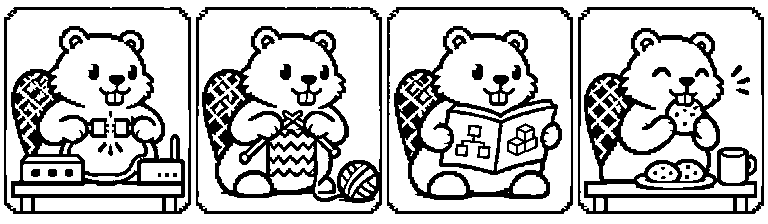
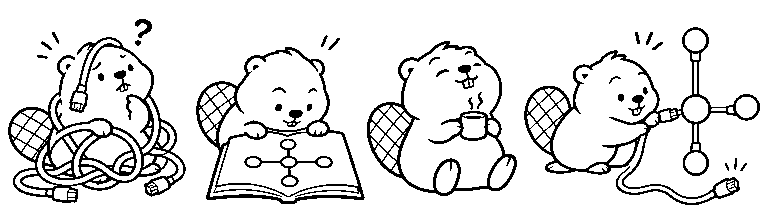
feat: aplicar castor minimalista elegido para la carga (1.2.4)

Changed region(s): [[0.0, 0.0312, 1.0, 0.9688]]

diff --git a/index.html b/index.html
@@ -3,7 +3,7 @@
 <head>
 <meta charset="utf-8">
 <meta name="viewport" content="width=device-width, initial-scale=1">
-<meta name="application-version" content="fractalear-1.2.3">
+<meta name="application-version" content="fractalear-1.2.4">
 <title>Fractalear · LAB 4.0 · Universidad Nacional</title>
 <link rel="icon" type="image/svg+xml" sizes="any" href="./css/images/favicon.svg">
 <link rel="stylesheet" href="./css/interfaz.css">
@@ -37,13 +37,13 @@
    <div class="toplabel"><div class="eyebrow" >Editor / 01</div><div class="maptitle" >Mapa de relaciones</div><div class="mapcaption" >Núcleo · trayectorias editables</div></div>
    <div id="readHint" class="readhint" hidden></div><div id="derivedStatus" class="readhint derived-status" role="status" aria-live="polite" hidden></div>
    <div class="loading-overlay" id="loadingIndicator" role="status" aria-live="polite"><div class="loading-card"><div class="eyebrow">Fractalear</div><p class="loading-title" data-loading-title>Preparando tu lienzo</p>
-    <img class="loading-illustration" src="./css/images/beaver-strip.png" width="768" height="224" alt="Castor conectando cables, tejiendo, leyendo un manual y comiendo una galleta." decoding="async">
+    <img class="loading-illustration" src="./css/images/beaver-strip.png" width="768" height="224" alt="Castor enredado en cables, consultando un manual, tomando café y organizando una red de conexiones." decoding="async">
     <div class="loading-track" role="progressbar" aria-label="Cálculo en curso"><span></span></div><p class="loading-detail" data-loading-detail>Cargando la herramienta…</p></div></div>
    <div class="floating" aria-label="Controles de lectura"><div class="zoom-controls"><button id="zoomOut" aria-label="Alejar">−</button><button id="zoomIn" aria-label="Acercar">+</button><button id="zoomFit" aria-label="Centrar zona de lectura"><svg width="14" height="14" viewBox="0 0 20 20" aria-hidden="true" focusable="false"><circle cx="10" cy="10" r="5" fill="none" stroke="currentColor"/><path d="M10 1v5m0 8v5M1 10h5m8 0h5" fill="none" stroke="currentColor"/></svg></button></div><div class="view-tools"><button id="coreBtn" title="Centrar el núcleo J0">Núcleo</button><button id="fitBtn">Centrar lectura</button></div></div>
    <div class="toast" id="toast" role="status"></div>
   </main>
  </div>
- <footer class="foot"><span id="footHint">Edición de conceptos · representación plana</span><span id="viewState">01 · EDITABLE</span><span>Fractalear &nbsp;·&nbsp; LAB 4.0 &nbsp;·&nbsp; v1.2.3</span></footer>
+ <footer class="foot"><span id="footHint">Edición de conceptos · representación plana</span><span id="viewState">01 · EDITABLE</span><span>Fractalear &nbsp;·&nbsp; LAB 4.0 &nbsp;·&nbsp; v1.2.4</span></footer>
 </div>
 <script type="module" src="./js/app.js"></script>
 </body>

diff --git a/css/interfaz.css b/css/interfaz.css
@@ -63,7 +63,7 @@
 .loading-track{height:4px;background:var(--soft);overflow:hidden;border-radius:2px}
 .loading-track span{display:block;width:38%;height:100%;background:var(--ink);transform:translateX(-110%);animation:loading-sweep 1.4s ease-in-out infinite;will-change:transform}
 @keyframes loading-sweep{to{transform:translateX(370%)}}
-.loading-illustration{display:block;width:100%;height:auto;margin:0 auto 18px;image-rendering:pixelated;mix-blend-mode:multiply}
+.loading-illustration{display:block;width:100%;height:auto;margin:0 auto 18px;mix-blend-mode:multiply}
 :root[data-theme="dark"] .loading-illustration{filter:invert(1);mix-blend-mode:screen}
 @media(max-width:1250px){.top{grid-template-columns:minmax(0,1fr) auto;grid-template-rows:auto auto;gap:5px 14px;padding:10px 18px}.top .identity{grid-column:1;grid-row:1}.view-nav{grid-column:2;grid-row:1}.top .top-actions{grid-column:1/-1;grid-row:2;justify-content:flex-end}.top .smallbtn{padding:7px 8px}}
 @media(max-width:900px){.top{padding:8px 12px}.top .smallbtn{font-size:10px;padding:7px 6px}.top .brand{display:none}.floating{right:12px;bottom:12px}.file-actions{padding-left:5px}}

diff --git a/tests/views_e2e.py b/tests/views_e2e.py
@@ -21,7 +21,7 @@ with http.server.ThreadingHTTPServer(('127.0.0.1',0),Quiet) as srv:
   print('E2E: abriendo sitio construido',flush=True)
   page.goto('http://127.0.0.1:'+str(srv.server_address[1])+'/index.html',wait_until='domcontentloaded')
   build=page.locator('meta[name="application-build"]').get_attribute('content')
-  assert '1.2.3' in page.locator('meta[name="application-version"]').get_attribute('content')
+  assert '1.2.4' in page.locator('meta[name="application-version"]').get_attribute('content')
   page.wait_for_function('[...document.fonts].filter(f=>f.family==="Rajdhani"&&f.status==="loaded").length===2')
   def check_labels(selector):
    labels=page.locator(selector).evaluate_all("""els=>els.map(el=>{

diff --git a/tests/integrity_e2e.py b/tests/integrity_e2e.py
@@ -54,7 +54,7 @@ with http.server.ThreadingHTTPServer(('127.0.0.1',0),Quiet) as srv:
   output=os.environ.get('P1_SCREENSHOTS')
   if output:
    Path(output).mkdir(parents=True,exist_ok=True)
-   page.screenshot(path=str(Path(output)/'Fractaleando_1_2_3_carga.png'))
+   page.screenshot(path=str(Path(output)/'Fractaleando_1_2_4_carga.png'))
   for button in ['pngBtn','svgBtn']:
    page.locator('#'+button).click()
    prefix='No se pudo exportar '+('PNG' if button=='pngBtn' else 'SVG')

diff --git a/docs/INTERFAZ_1_2_4.md b/docs/INTERFAZ_1_2_4.md
@@ -1,0 +1,26 @@
+# 1.2.4 · Castor minimalista
+
+Fecha: 15 de noviembre de 2026. Incorpora la opción 2 elegida por el usuario
+tras comparar tres propuestas. Sustituye únicamente la ilustración de carga
+y ajusta su presentación a los contornos suaves del nuevo dibujo.
+
+La tira cuenta cuatro momentos con poses diferentes: enredo de cables,
+consulta del manual, pausa para café y organización de una red de conexiones.
+Se conserva como una sola imagen fija en blanco y negro, sin marcos.
+
+`css/images/beaver-strip.png` mide 768 × 224 píxeles y pesa 6.329 bytes.
+Es un PNG de un bit, sin grises, tramado, transparencia ni animación.
+Se recorta el margen exterior del original y se ajusta proporcionalmente,
+con espacio libre alrededor, sin redibujar la propuesta seleccionada.
+El [registro de procedencia](evidencias/CASTOR_1_2_4.json) conserva el prompt,
+la herramienta utilizada y las firmas del original y el archivo final.
+
+La tarjeta conserva sus dimensiones adaptables, contraste en claro y oscuro,
+barra de progreso y mensajes. Se retira el escalado forzado de píxeles del
+dibujo anterior para conservar los contornos de esta ilustración minimalista.
+El texto alternativo describe la nueva secuencia. No se añaden dependencias,
+temporizadores ni peticiones a servidores externos.
+
+El motor, la geometría, la edición y las exportaciones siguen intactos. Se
+mantienen las comprobaciones de dimensiones, formato y peso, imagen fija,
+movimiento reducido, ejemplo completo y regresión de las tres vistas.

diff --git a/README.md b/README.md
@@ -3,7 +3,7 @@
 Una herramienta desarrollada por el LAB 4.0 de la Universidad Nacional para
 construir conceptos, desarrollar sus jerarquías y representar sus relaciones.
 
-**[Abrir Fractalear](https://jncubillosn-lab.github.io/LAB4.0-Fractaleando/?v=1.2.3)**
+**[Abrir Fractalear](https://jncubillosn-lab.github.io/LAB4.0-Fractaleando/?v=1.2.4)**
 
 ## Comenzar
 
@@ -24,7 +24,7 @@ los cálculos en curso; el espacio
 ## Documentación vigente
 
 - [Guía de uso](docs/GUIA_USO.md).
-- [Interfaz 1.2.3: viñetas fijas del castor](docs/INTERFAZ_1_2_3.md).
+- [Interfaz 1.2.4: viñetas fijas del castor](docs/INTERFAZ_1_2_4.md).
 - [Propuesta de almacenamiento compartido en Drive](docs/PROPUESTA_DRIVE.md).
 - [Base funcional, decisiones y límites de 1.0.0](docs/VERSION_1_0_0.md).
 - [Mantenimiento, pruebas y publicación](docs/MANTENIMIENTO.md).

diff --git a/CHANGELOG.md b/CHANGELOG.md
@@ -1,5 +1,14 @@
 # Registro de cambios
 
+## 1.2.4 — 15 de noviembre de 2026
+
+- Aplica la ilustración minimalista elegida: castor enredado en cables,
+  consultando el manual, tomando café y organizando conexiones.
+- Conserva una tira fija en blanco y negro de 768 × 224 píxeles, ahora de
+  6.329 bytes, con texto alternativo actualizado y contornos suaves.
+- Mantiene el motor y las funciones; documenta la procedencia de la imagen
+  y conserva las comprobaciones de carga, temas y vistas.
+
 ## 1.2.3 — 15 de noviembre de 2026
 
 - Sustituye el GIF por una tira fija de cuatro viñetas del mismo castor:

diff --git a/docs/README.md b/docs/README.md
@@ -2,8 +2,8 @@
 
 **[▶ Abrir la aplicación en GitHub Pages](https://jncubillosn-lab.github.io/LAB4.0-Fractaleando/)**
 
-**Versión vigente · 1.2.3 · 15 de noviembre de 2026:**
-[viñetas fijas del castor](INTERFAZ_1_2_3.md) y [diecisiete citas poéticas](INTERFAZ_1_2_0.md), sobre la
+**Versión vigente · 1.2.4 · 15 de noviembre de 2026:**
+[viñetas fijas del castor](INTERFAZ_1_2_4.md) y [diecisiete citas poéticas](INTERFAZ_1_2_0.md), sobre la
 [base funcional y límites de 1.0.0](VERSION_1_0_0.md).
 Consultar la [guía de uso](GUIA_USO.md), el
 [mantenimiento y la publicación](MANTENIMIENTO.md) y el
